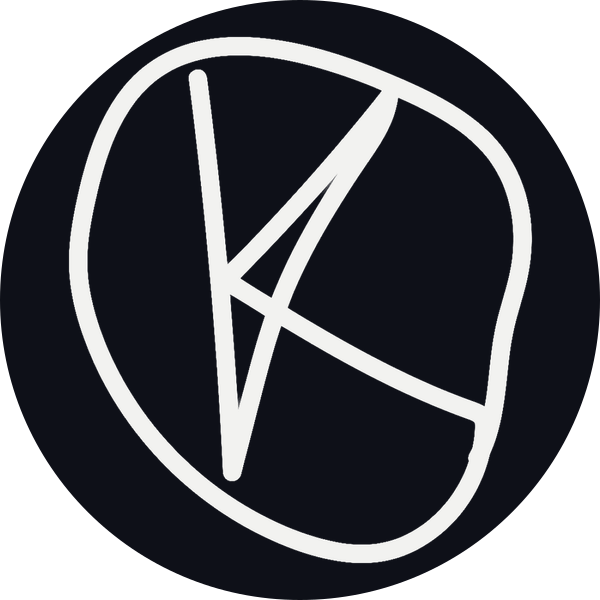
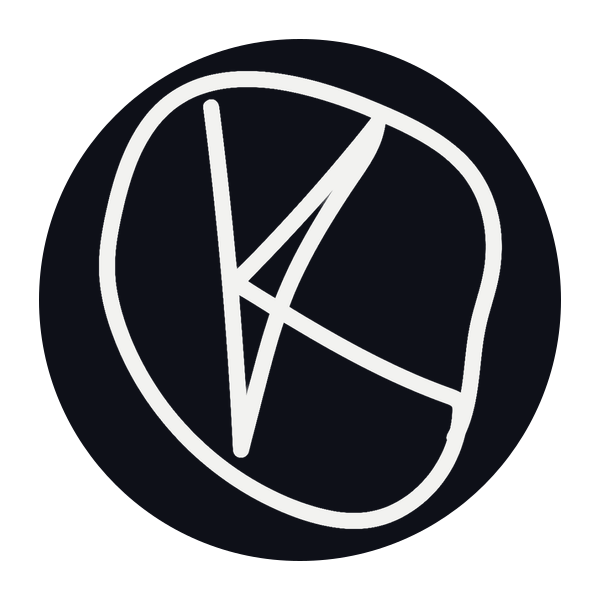
Footer disc: darker 3D coin, static fallback sized like the live one

diff --git a/src/lib/icons.ts b/src/lib/icons.ts
@@ -255,7 +255,7 @@ export function makeLogo(tone: LogoTone = 'ink', radius = 2.35) {
     const box = logoGeometry.boundingBox!;
     const c = box.getCenter(new Vector3());
     const coin = new Shape().absarc(0, 0, (box.max.y - box.min.y) / 2 / 0.9, 0, Math.PI * 2, false);
-    const back = new Mesh(solid(coin, 0.1, 0.04, 28), mat('#0e1018', { roughness: 0.6, clearcoat: 0.1, envMapIntensity: 0.12 }));
+    const back = new Mesh(solid(coin, 0.1, 0.04, 28), mat('#0e1018', { roughness: 0.8, clearcoat: 0, envMapIntensity: 0.04 }));
     back.position.set(c.x, c.y, box.min.z - 0.07);
     content.add(back);
   }
